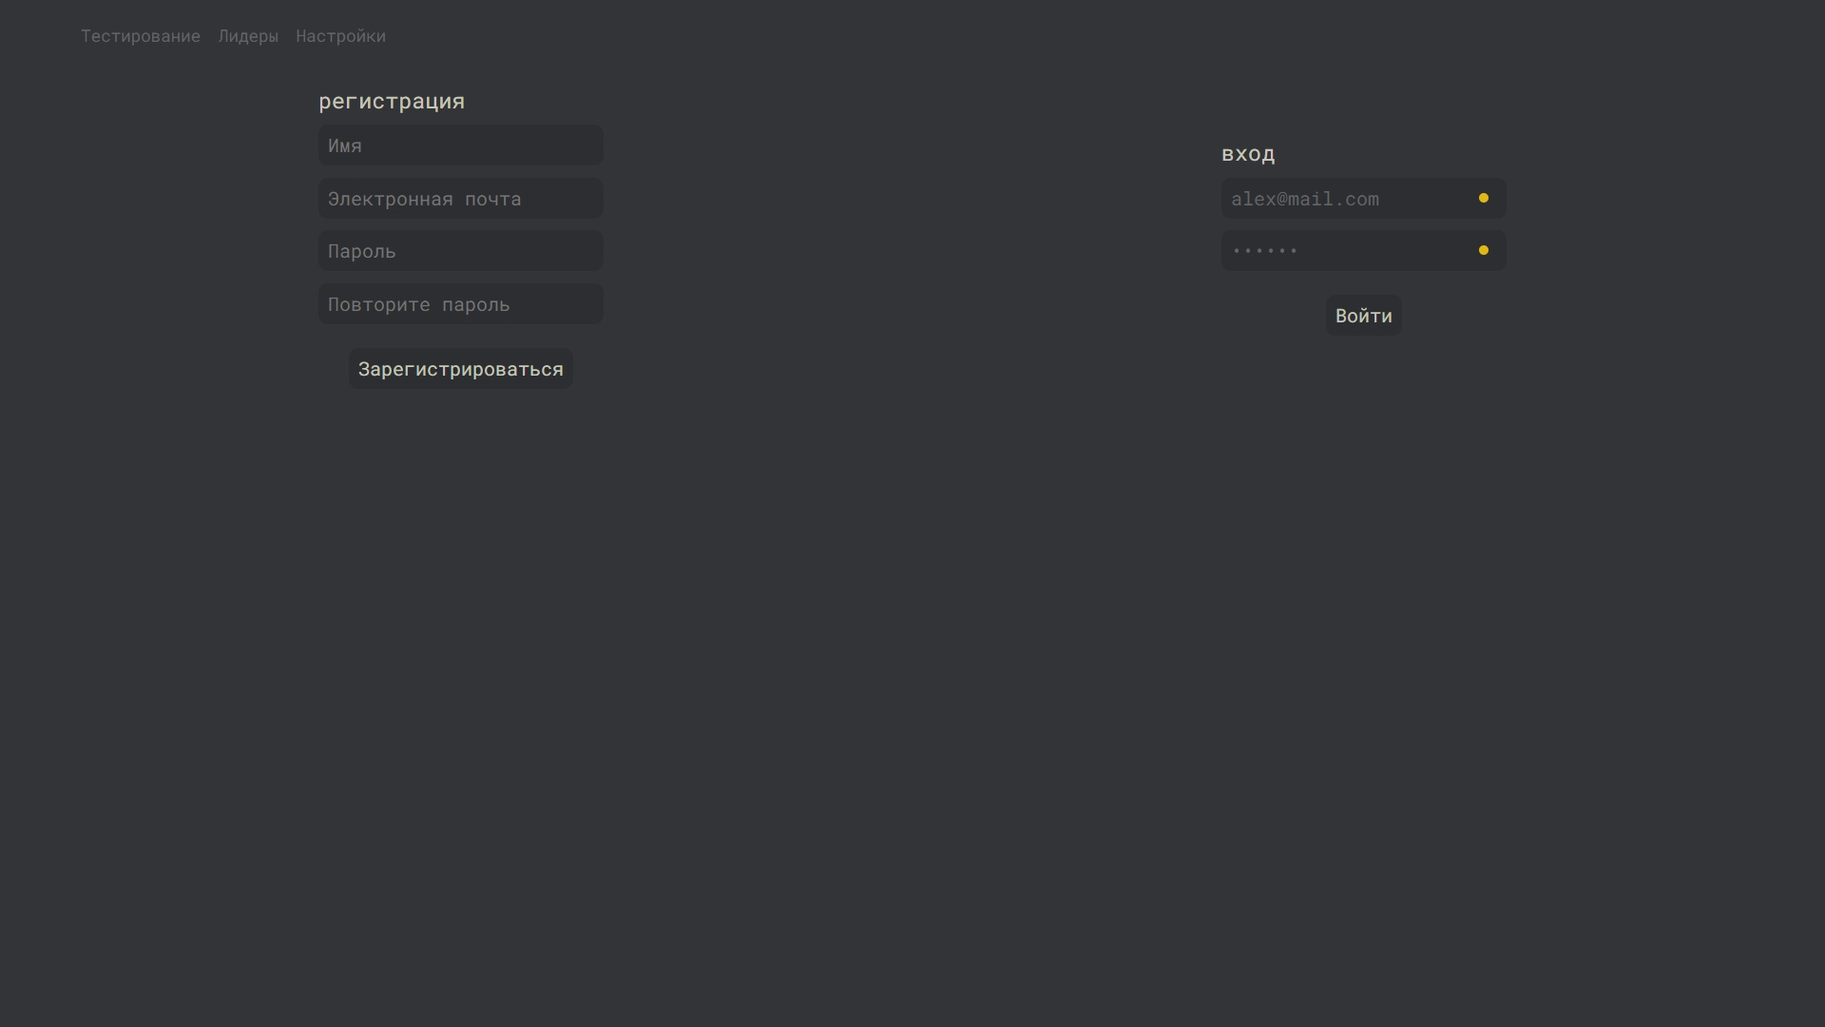
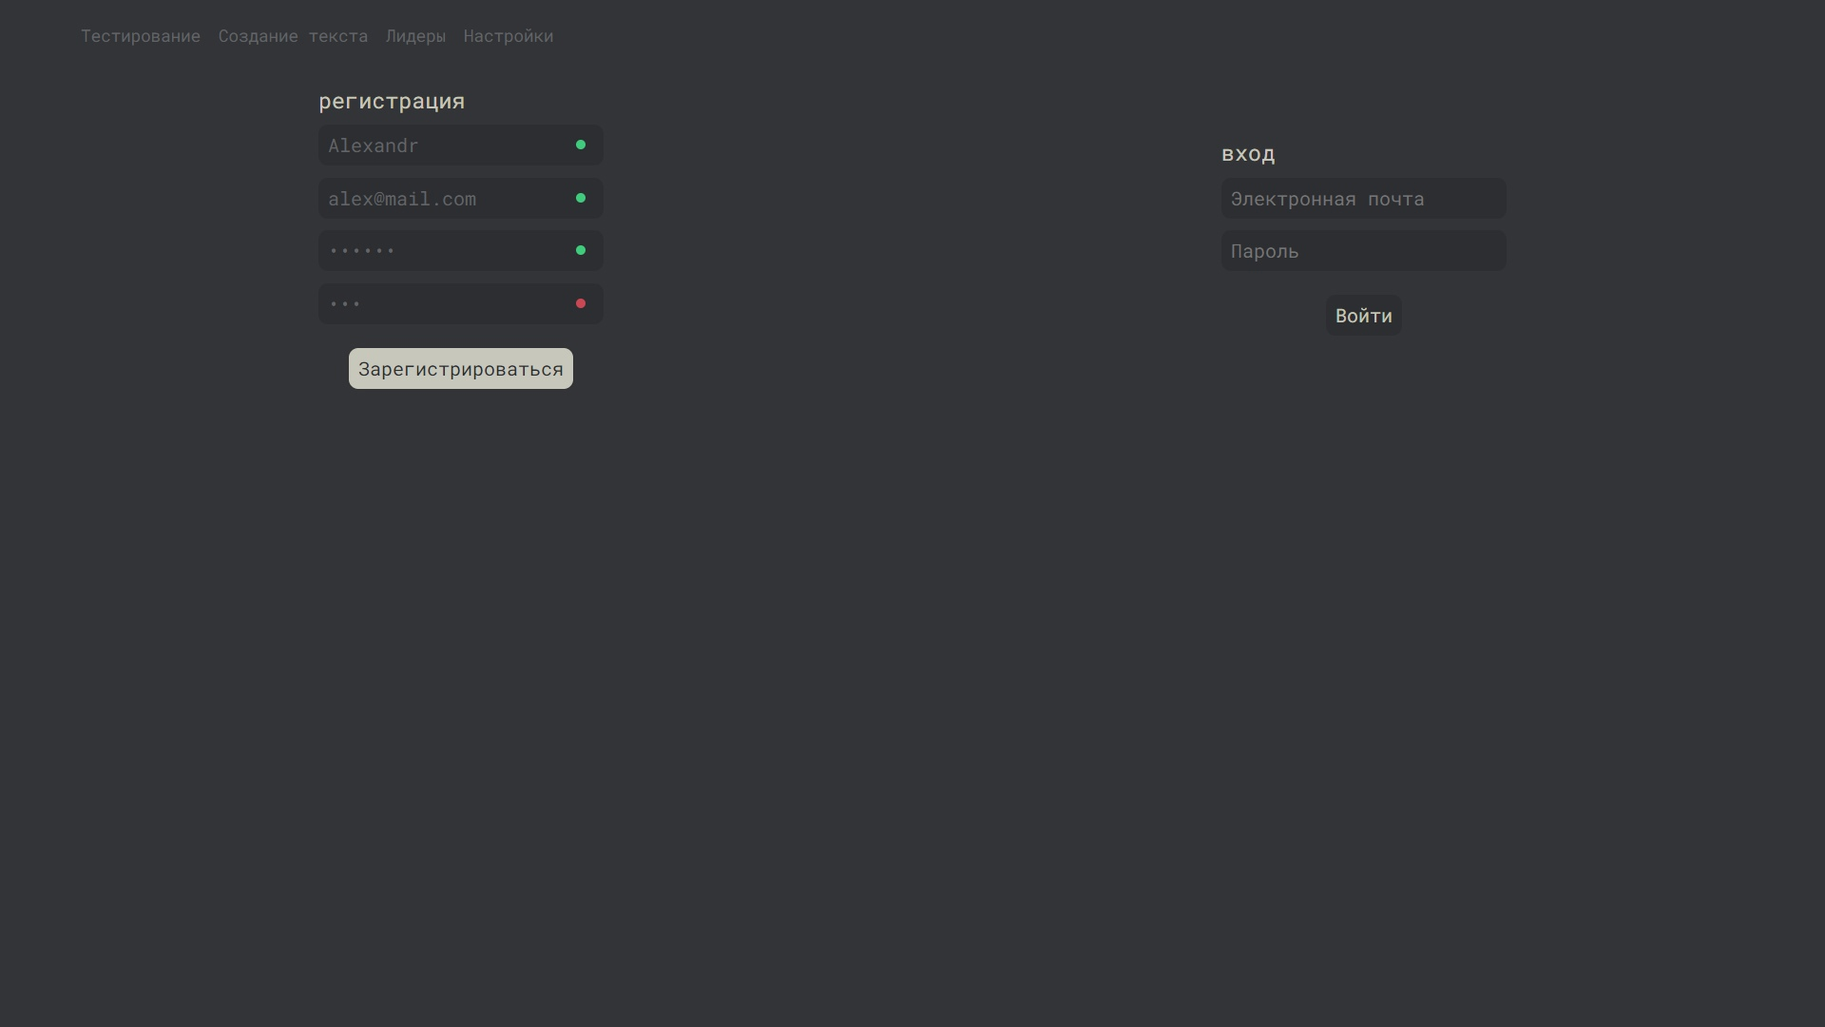
рефакторинг

diff --git a/static/css/main.css b/static/css/main.css
@@ -1,1 +1,1 @@
-@import url(https://fonts.googleapis.com/css2?family=Roboto+Mono:wght@300;400;500;600;700&display=swap);html{line-height:1.15;-webkit-text-size-adjust:100%}body{margin:0}main{display:block}h1{font-size:2em;margin:.67em 0}hr{-webkit-box-sizing:content-box;box-sizing:content-box;height:0;overflow:visible}pre{font-family:monospace,monospace;font-size:1em}a{background-color:transparent}abbr[title]{border-bottom:none;text-decoration:underline;-webkit-text-decoration:underline dotted;text-decoration:underline dotted}b,strong{font-weight:bolder}code,kbd,samp{font-family:monospace,monospace;font-size:1em}small{font-size:80%}sub,sup{font-size:75%;line-height:0;position:relative;vertical-align:baseline}sub{bottom:-.25em}sup{top:-.5em}img{border-style:none}button,input,optgroup,select,textarea{font-family:inherit;font-size:100%;line-height:1.15;margin:0}button,input{overflow:visible}button,select{text-transform:none}[type=button],[type=reset],[type=submit],button{-webkit-appearance:button}[type=button]::-moz-focus-inner,[type=reset]::-moz-focus-inner,[type=submit]::-moz-focus-inner,button::-moz-focus-inner{border-style:none;padding:0}[type=button]:-moz-focusring,[type=reset]:-moz-focusring,[type=submit]:-moz-focusring,button:-moz-focusring{outline:1px dotted ButtonText}fieldset{padding:.35em .75em .625em}legend{-webkit-box-sizing:border-box;box-sizing:border-box;color:inherit;display:table;max-width:100%;padding:0;white-space:normal}progress{vertical-align:baseline}textarea{overflow:auto}[type=checkbox],[type=radio]{-webkit-box-sizing:border-box;box-sizing:border-box;padding:0}[type=number]::-webkit-inner-spin-button,[type=number]::-webkit-outer-spin-button{height:auto}[type=search]{-webkit-appearance:textfield;outline-offset:-2px}[type=search]::-webkit-search-decoration{-webkit-appearance:none}::-webkit-file-upload-button{-webkit-appearance:button;font:inherit}details{display:block}summary{display:list-item}template{display:none}[hidden]{display:none}.account__info-subtitle,.account__info-title,.account__texts-table-header-title,.account__user-username,.auth__block-title,.notification__title,body{font-weight:400;font-family:"Roboto Mono",sans-serif}*,::after,::before{padding:0;margin:0;-webkit-box-sizing:border-box;box-sizing:border-box;list-style-type:none;resize:none;outline:0;text-decoration:none}body{background:#323437;color:#c8c7bc}body::-webkit-scrollbar-thumb{border-radius:8px;background:#626467}body::-webkit-scrollbar{border-radius:8px;background:#2c2e31;width:6px}table{border-collapse:collapse;width:100%}img{max-width:100%;height:auto}button[disabled],input[type=button][disabled],input[type=submit][disabled]{opacity:.8;cursor:not-allowed;pointer-events:none}#__layout,#__layout>div,#__nuxt{min-height:100vh;height:100%}h1,h2,h3,h4,h5,h6{margin:0}.container{max-width:1420px;height:100%;padding:0 10px;margin:0 auto;min-height:inherit}.page__inner{min-height:inherit}.auth{min-height:inherit}.auth__inner{min-height:inherit;max-width:1000px;margin:0 auto;display:-webkit-box;display:-ms-flexbox;display:flex;-webkit-box-pack:justify;-ms-flex-pack:justify;justify-content:space-between;-webkit-box-align:center;-ms-flex-align:center;align-items:center}.auth__block{display:-webkit-box;display:-ms-flexbox;display:flex;-webkit-box-orient:vertical;-webkit-box-direction:normal;-ms-flex-direction:column;flex-direction:column}.auth__block:not(:last-child){margin-right:15px}.auth__block-title{padding-bottom:10px;text-transform:lowercase}.form{display:-webkit-box;display:-ms-flexbox;display:flex;-webkit-box-orient:vertical;-webkit-box-direction:normal;-ms-flex-direction:column;flex-direction:column}.form__field:not(:last-child){margin-bottom:10px}.form__input,.form__textarea{border:none;background:#2c2e31;caret-color:#e2b714;color:#626467;padding:8px 35px 8px 8px;border-radius:8px}.form__input:focus,.form__textarea:focus{color:#c8c7bc}.form__textarea{width:100%}.form__label{width:100%;position:relative}.form__label::after{content:"";position:absolute;width:8px;height:8px;border-radius:8px;top:0;bottom:0;margin:auto 0;right:15px;background:#e2b714;opacity:0;-webkit-transition:background,opacity,.3s;-o-transition:background,opacity,.3s;transition:background,opacity,.3s}.form__input{width:240px}.form__submit-block{margin-top:10px;display:-webkit-box;display:-ms-flexbox;display:flex;-webkit-box-pack:center;-ms-flex-pack:center;justify-content:center;-webkit-box-align:center;-ms-flex-align:center;align-items:center}.form__submit{cursor:pointer;background:#2c2e31;padding:8px;color:#c8c7bc;border:none;border-radius:8px;-webkit-transition:color,background,.2s;-o-transition:color,background,.2s;transition:color,background,.2s}.form__submit:hover{color:#2c2e31;background:#c8c7bc}.invalid-input::after{background:#ca4754}.show::after{opacity:1}.notifications{position:fixed;top:0;right:0;z-index:9999999;padding:10px}.notification{border-radius:8px;padding:15px;width:380px}.notification__title{font-size:15px;color:#323437;padding-bottom:5px}.notification__desc{color:#2c2e31;font-size:17px}.notification--error{background:#ca4754}.notification--warning{background:#e2b714}.notification--success{background:#40cc7d}.header{margin-bottom:15px;padding:20px 0}.header__list{display:-webkit-box;display:-ms-flexbox;display:flex;-webkit-box-align:center;-ms-flex-align:center;align-items:center}.header__list-item:not(:last-child){margin-right:15px}.header__list-link{color:#626467;-webkit-transition:color .3s;-o-transition:color .3s;transition:color .3s;font-size:14px}.header__list-link:hover{color:#c8c7bc}.header__list-signout{margin-left:auto}.header__list-user{display:-webkit-box;display:-ms-flexbox;display:flex;-webkit-box-align:center;-ms-flex-align:center;align-items:center}.header__list-user-level{padding:1px 2px;display:inline-block;border-radius:2px;background:#626467;color:#323437;font-size:12px;margin-left:4px}.testing{height:90vh;overflow:hidden}.testing__inner{height:100%;display:-webkit-box;display:-ms-flexbox;display:flex;-webkit-box-orient:vertical;-webkit-box-direction:normal;-ms-flex-direction:column;flex-direction:column;-webkit-box-pack:center;-ms-flex-pack:center;justify-content:center;position:relative}.testing-focus{display:-webkit-box;display:-ms-flexbox;display:flex;-webkit-box-pack:center;-ms-flex-pack:center;justify-content:center;-webkit-box-align:center;-ms-flex-align:center;align-items:center;opacity:1;-webkit-transition:opacity .3s;-o-transition:opacity .3s;transition:opacity .3s}.testing-focus--hide{opacity:0}.testing-focus__inner{display:-webkit-box;display:-ms-flexbox;display:flex;-webkit-box-align:center;-ms-flex-align:center;align-items:center}.testing-focus__icon{fill:#c8c7bc;margin-right:10px;width:40px}.testing__text{line-height:30px;width:100%;-webkit-transition:opacity,.3s,-webkit-filter;transition:opacity,.3s,-webkit-filter;-o-transition:opacity,filter,.3s;transition:opacity,filter,.3s;transition:opacity,filter,.3s,-webkit-filter;-webkit-user-select:none;-moz-user-select:none;-ms-user-select:none;user-select:none;position:relative}.testing__text--disabled{opacity:.5;-webkit-filter:blur(3px);filter:blur(3px)}.testing__letter{font-size:25px;color:#626467;-webkit-transition:color .3s;-o-transition:color .3s;transition:color .3s;padding:0 1px}.testing__letter--complete{color:#c8c7bc}.testing__letter--failure{color:#ca4754}.testing-window{position:absolute;width:100%;height:100%;z-index:9999}.testing-result{display:-webkit-box;display:-ms-flexbox;display:flex;-webkit-box-orient:vertical;-webkit-box-direction:normal;-ms-flex-direction:column;flex-direction:column}.testing-result__data{width:80%;margin:0 auto;background:#2c2e31;border-radius:5px;margin-bottom:15px}.testing-result__data-row:not(:last-child) td{border-bottom:1px solid #323437}.testing-result__data-column{padding:10px;font-size:18px}.testing-result__data-column:not(:last-child){border-right:1px solid #323437}.testing-result__data-value{color:#e2b714;display:-webkit-box;display:-ms-flexbox;display:flex;-webkit-box-pack:end;-ms-flex-pack:end;justify-content:flex-end}.testing-result__controls{display:-webkit-box;display:-ms-flexbox;display:flex;-webkit-box-pack:center;-ms-flex-pack:center;justify-content:center;-webkit-box-align:center;-ms-flex-align:center;align-items:center}.testing-result__controls-btn{padding:0 15px;cursor:pointer;color:#626467;border:none;background:0 0;-webkit-transition:color .3s;-o-transition:color .3s;transition:color .3s}.testing-result__controls-btn:hover{color:#c8c7bc}.create-text__textarea{width:1000px;margin:0 auto;display:block;resize:vertical;min-height:200px;border:1px solid transparent}.create-text__textarea--invalid{border-color:#ca4754}.account{display:-webkit-box;display:-ms-flexbox;display:flex;-webkit-box-orient:vertical;-webkit-box-direction:normal;-ms-flex-direction:column;flex-direction:column}.account__info{display:grid;grid-template-columns:.3fr .8fr .8fr;grid-gap:10px;border-radius:10px;padding:10px;background:#2c2e31}.account__info-subtitle{margin-bottom:5px;color:#626467;font-size:16px}.account__info-title{color:#e2b714;font-size:20px}.account__params{display:-webkit-box;display:-ms-flexbox;display:flex;-webkit-box-orient:vertical;-webkit-box-direction:normal;-ms-flex-direction:column;flex-direction:column;text-align:center}.account__user{display:-webkit-box;display:-ms-flexbox;display:flex;-webkit-box-orient:vertical;-webkit-box-direction:normal;-ms-flex-direction:column;flex-direction:column;position:relative;padding-right:30px}.account__user::after{content:"";width:10px;height:100%;border-radius:10px;background:#323437;position:absolute;top:0;right:0;z-index:99}.account__user-header{margin-bottom:10px;display:-webkit-box;display:-ms-flexbox;display:flex;-webkit-box-align:center;-ms-flex-align:center;align-items:center;-webkit-box-pack:justify;-ms-flex-pack:justify;justify-content:space-between}.account__user-level{text-align:center;color:#626467}.account__user-level-value{color:#e2b714}.account__user-icon{fill:#323437;width:120px}.account__user-icon .cls-1{stroke:#626467}.account__user-username{margin-left:10px;word-break:break-word;white-space:nowrap;overflow:hidden;-o-text-overflow:ellipsis;text-overflow:ellipsis;max-width:250px}.account__texts{margin-top:15px}.account__texts-table-header-title{font-size:14px;text-align:left;color:#626467}.account__texts-table-body-row{padding:10px}.account__texts-table-body-row:nth-child(odd) td{background:#2c2e31}.account__texts-table-body-row:nth-child(odd) td:first-child{border-radius:10px 0 0 10px}.account__texts-table-body-row:nth-child(odd) td:last-child{border-radius:0 10px 10px 0}.account__texts-table-content{padding:10px}.caret{position:absolute;z-index:99;width:4px;border-radius:4px;background:#e2b714;-webkit-animation:hidden .5s infinite alternate ease-out;animation:hidden .5s infinite alternate ease-out;-webkit-transition:left,height,top,.1s;-o-transition:left,height,top,.1s;transition:left,height,top,.1s}@-webkit-keyframes hidden{0%{opacity:1}100%{opacity:0}}@keyframes hidden{0%{opacity:1}100%{opacity:0}}
+@import url(https://fonts.googleapis.com/css2?family=Roboto+Mono:wght@300;400;500;600;700&display=swap);html{line-height:1.15;-webkit-text-size-adjust:100%}body{margin:0}main{display:block}h1{font-size:2em;margin:.67em 0}hr{-webkit-box-sizing:content-box;box-sizing:content-box;height:0;overflow:visible}pre{font-family:monospace,monospace;font-size:1em}a{background-color:transparent}abbr[title]{border-bottom:none;text-decoration:underline;-webkit-text-decoration:underline dotted;text-decoration:underline dotted}b,strong{font-weight:bolder}code,kbd,samp{font-family:monospace,monospace;font-size:1em}small{font-size:80%}sub,sup{font-size:75%;line-height:0;position:relative;vertical-align:baseline}sub{bottom:-.25em}sup{top:-.5em}img{border-style:none}button,input,optgroup,select,textarea{font-family:inherit;font-size:100%;line-height:1.15;margin:0}button,input{overflow:visible}button,select{text-transform:none}[type=button],[type=reset],[type=submit],button{-webkit-appearance:button}[type=button]::-moz-focus-inner,[type=reset]::-moz-focus-inner,[type=submit]::-moz-focus-inner,button::-moz-focus-inner{border-style:none;padding:0}[type=button]:-moz-focusring,[type=reset]:-moz-focusring,[type=submit]:-moz-focusring,button:-moz-focusring{outline:1px dotted ButtonText}fieldset{padding:.35em .75em .625em}legend{-webkit-box-sizing:border-box;box-sizing:border-box;color:inherit;display:table;max-width:100%;padding:0;white-space:normal}progress{vertical-align:baseline}textarea{overflow:auto}[type=checkbox],[type=radio]{-webkit-box-sizing:border-box;box-sizing:border-box;padding:0}[type=number]::-webkit-inner-spin-button,[type=number]::-webkit-outer-spin-button{height:auto}[type=search]{-webkit-appearance:textfield;outline-offset:-2px}[type=search]::-webkit-search-decoration{-webkit-appearance:none}::-webkit-file-upload-button{-webkit-appearance:button;font:inherit}details{display:block}summary{display:list-item}template{display:none}[hidden]{display:none}.account__info-subtitle,.account__info-title,.account__texts-table-header-title,.account__user-username,.auth__block-title,.notification__title,body{font-weight:400;font-family:"Roboto Mono",sans-serif}*,::after,::before{padding:0;margin:0;-webkit-box-sizing:border-box;box-sizing:border-box;list-style-type:none;resize:none;outline:0;text-decoration:none}body{background:#323437;color:#c8c7bc}body::-webkit-scrollbar-thumb{border-radius:8px;background:#626467}body::-webkit-scrollbar{border-radius:8px;background:#2c2e31;width:6px}table{border-collapse:collapse;width:100%}img{max-width:100%;height:auto}button[disabled],input[type=button][disabled],input[type=submit][disabled]{opacity:.8;cursor:not-allowed;pointer-events:none}#__layout,#__layout>div,#__nuxt{min-height:100vh;height:100%}h1,h2,h3,h4,h5,h6{margin:0}.container{max-width:1420px;height:100%;padding:0 10px;margin:0 auto;min-height:inherit}.page__inner{min-height:inherit}.auth{min-height:inherit}.auth__inner{min-height:inherit;max-width:1000px;margin:0 auto;display:-webkit-box;display:-ms-flexbox;display:flex;-webkit-box-pack:justify;-ms-flex-pack:justify;justify-content:space-between;-webkit-box-align:center;-ms-flex-align:center;align-items:center}.auth__block{display:-webkit-box;display:-ms-flexbox;display:flex;-webkit-box-orient:vertical;-webkit-box-direction:normal;-ms-flex-direction:column;flex-direction:column}.auth__block:not(:last-child){margin-right:15px}.auth__block-title{padding-bottom:10px;text-transform:lowercase}.form{display:-webkit-box;display:-ms-flexbox;display:flex;-webkit-box-orient:vertical;-webkit-box-direction:normal;-ms-flex-direction:column;flex-direction:column}.form__field:not(:last-child){margin-bottom:10px}.form__input,.form__textarea{border:none;background:#2c2e31;caret-color:#e2b714;color:#626467;padding:8px 35px 8px 8px;border-radius:8px}.form__input:focus,.form__textarea:focus{color:#c8c7bc}.form__textarea{width:100%}.form__label{width:100%;position:relative}.form__label::after{content:"";position:absolute;width:8px;height:8px;border-radius:8px;top:0;bottom:0;margin:auto 0;right:15px;background:#40cc7d;opacity:0;-webkit-transition:background,opacity,.3s;-o-transition:background,opacity,.3s;transition:background,opacity,.3s}.form__input{width:240px}.form__submit-block{margin-top:10px;display:-webkit-box;display:-ms-flexbox;display:flex;-webkit-box-pack:center;-ms-flex-pack:center;justify-content:center;-webkit-box-align:center;-ms-flex-align:center;align-items:center}.form__submit{cursor:pointer;background:#2c2e31;padding:8px;color:#c8c7bc;border:none;border-radius:8px;-webkit-transition:color,background,.2s;-o-transition:color,background,.2s;transition:color,background,.2s}.form__submit:hover{color:#2c2e31;background:#c8c7bc}.invalid-input::after{background:#ca4754}.show::after{opacity:1}.notifications{position:fixed;top:0;right:0;z-index:9999999;padding:10px}.notification{border-radius:8px;padding:15px;width:380px}.notification__title{font-size:15px;color:#323437;padding-bottom:5px}.notification__desc{color:#2c2e31;font-size:17px}.notification--error{background:#ca4754}.notification--warning{background:#e2b714}.notification--success{background:#40cc7d}.header{margin-bottom:15px;padding:20px 0}.header__list{display:-webkit-box;display:-ms-flexbox;display:flex;-webkit-box-align:center;-ms-flex-align:center;align-items:center}.header__list-item:not(:last-child){margin-right:15px}.header__list-link{color:#626467;-webkit-transition:color .3s;-o-transition:color .3s;transition:color .3s;font-size:14px}.header__list-link:hover{color:#c8c7bc}.header__list-signout{margin-left:auto}.header__list-user{display:-webkit-box;display:-ms-flexbox;display:flex;-webkit-box-align:center;-ms-flex-align:center;align-items:center}.header__list-user-level{padding:1px 2px;display:inline-block;border-radius:2px;background:#626467;color:#323437;font-size:12px;margin-left:4px}.testing{height:90vh;overflow:hidden}.testing__inner{height:100%;display:-webkit-box;display:-ms-flexbox;display:flex;-webkit-box-orient:vertical;-webkit-box-direction:normal;-ms-flex-direction:column;flex-direction:column;-webkit-box-pack:center;-ms-flex-pack:center;justify-content:center;position:relative}.testing-focus{display:-webkit-box;display:-ms-flexbox;display:flex;-webkit-box-pack:center;-ms-flex-pack:center;justify-content:center;-webkit-box-align:center;-ms-flex-align:center;align-items:center;opacity:1;-webkit-transition:opacity .3s;-o-transition:opacity .3s;transition:opacity .3s}.testing-focus--hide{opacity:0}.testing-focus__inner{display:-webkit-box;display:-ms-flexbox;display:flex;-webkit-box-align:center;-ms-flex-align:center;align-items:center}.testing-focus__icon{fill:#c8c7bc;margin-right:10px;width:40px}.testing__text{line-height:30px;width:100%;-webkit-transition:opacity,.3s,-webkit-filter;transition:opacity,.3s,-webkit-filter;-o-transition:opacity,filter,.3s;transition:opacity,filter,.3s;transition:opacity,filter,.3s,-webkit-filter;-webkit-user-select:none;-moz-user-select:none;-ms-user-select:none;user-select:none;position:relative}.testing__text--disabled{opacity:.5;-webkit-filter:blur(3px);filter:blur(3px)}.testing__letter{font-size:25px;color:#626467;-webkit-transition:color .3s;-o-transition:color .3s;transition:color .3s;padding:0 1px}.testing__letter--complete{color:#c8c7bc}.testing__letter--failure{color:#ca4754}.testing-window{position:absolute;width:100%;height:100%;z-index:9999}.testing-result{display:-webkit-box;display:-ms-flexbox;display:flex;-webkit-box-orient:vertical;-webkit-box-direction:normal;-ms-flex-direction:column;flex-direction:column}.testing-result__data{width:80%;margin:0 auto;background:#2c2e31;border-radius:5px;margin-bottom:15px}.testing-result__data-row:not(:last-child) td{border-bottom:1px solid #323437}.testing-result__data-column{padding:10px;font-size:18px}.testing-result__data-column:not(:last-child){border-right:1px solid #323437}.testing-result__data-value{color:#e2b714;display:-webkit-box;display:-ms-flexbox;display:flex;-webkit-box-pack:end;-ms-flex-pack:end;justify-content:flex-end}.testing-result__controls{display:-webkit-box;display:-ms-flexbox;display:flex;-webkit-box-pack:center;-ms-flex-pack:center;justify-content:center;-webkit-box-align:center;-ms-flex-align:center;align-items:center}.testing-result__controls-btn{padding:0 15px;cursor:pointer;color:#626467;border:none;background:0 0;-webkit-transition:color .3s;-o-transition:color .3s;transition:color .3s}.testing-result__controls-btn:hover{color:#c8c7bc}.create-text__textarea{width:1000px;margin:0 auto;display:block;resize:vertical;min-height:200px;border:1px solid transparent}.create-text__textarea--invalid{border-color:#ca4754}.account{display:-webkit-box;display:-ms-flexbox;display:flex;-webkit-box-orient:vertical;-webkit-box-direction:normal;-ms-flex-direction:column;flex-direction:column}.account__info{display:grid;grid-template-columns:.3fr .8fr .8fr;grid-gap:10px;border-radius:10px;padding:10px;background:#2c2e31}.account__info-subtitle{margin-bottom:5px;color:#626467;font-size:16px}.account__info-title{color:#e2b714;font-size:20px}.account__params{display:-webkit-box;display:-ms-flexbox;display:flex;-webkit-box-orient:vertical;-webkit-box-direction:normal;-ms-flex-direction:column;flex-direction:column;text-align:center}.account__user{display:-webkit-box;display:-ms-flexbox;display:flex;-webkit-box-orient:vertical;-webkit-box-direction:normal;-ms-flex-direction:column;flex-direction:column;position:relative;padding-right:30px}.account__user::after{content:"";width:10px;height:100%;border-radius:10px;background:#323437;position:absolute;top:0;right:0;z-index:99}.account__user-header{margin-bottom:10px;display:-webkit-box;display:-ms-flexbox;display:flex;-webkit-box-align:center;-ms-flex-align:center;align-items:center;-webkit-box-pack:justify;-ms-flex-pack:justify;justify-content:space-between}.account__user-level{text-align:center;color:#626467}.account__user-level-value{color:#e2b714}.account__user-icon{fill:#323437;width:120px}.account__user-icon .cls-1{stroke:#626467}.account__user-username{margin-left:10px;word-break:break-word;white-space:nowrap;overflow:hidden;-o-text-overflow:ellipsis;text-overflow:ellipsis;max-width:250px}.account__texts{margin-top:15px}.account__texts-table-header-title{font-size:14px;text-align:left;color:#626467}.account__texts-table-body-row{padding:10px}.account__texts-table-body-row:nth-child(odd) td{background:#2c2e31}.account__texts-table-body-row:nth-child(odd) td:first-child{border-radius:10px 0 0 10px}.account__texts-table-body-row:nth-child(odd) td:last-child{border-radius:0 10px 10px 0}.account__texts-table-content{padding:10px}.caret{position:absolute;z-index:99;width:4px;border-radius:4px;background:#e2b714;-webkit-animation:hidden .5s infinite alternate ease-out;animation:hidden .5s infinite alternate ease-out;-webkit-transition:left,height,top,.1s;-o-transition:left,height,top,.1s;transition:left,height,top,.1s}@-webkit-keyframes hidden{0%{opacity:1}100%{opacity:0}}@keyframes hidden{0%{opacity:1}100%{opacity:0}}

diff --git a/static/scss/index.scss b/static/scss/index.scss
@@ -76,7 +76,7 @@
       bottom: 0;
       margin: auto 0;
       right: 15px;
-      background: $yellow;
+      background: $green;
       opacity: 0;
       transition: background, opacity, .3s;
     }

diff --git a/README.md b/README.md
@@ -11,8 +11,8 @@ This app will help you train and test your typing speed
 ## Profile page
 <img src="./readmeImages/profile.jpg" alt="profile page" />
 
-## Create page
-<img src="./readmeImages/create.jpg" alt="create page" />
+## Create text page
+<img src="./readmeImages/create.jpg" alt="create text page" />
 
 ## Build Setup
 
